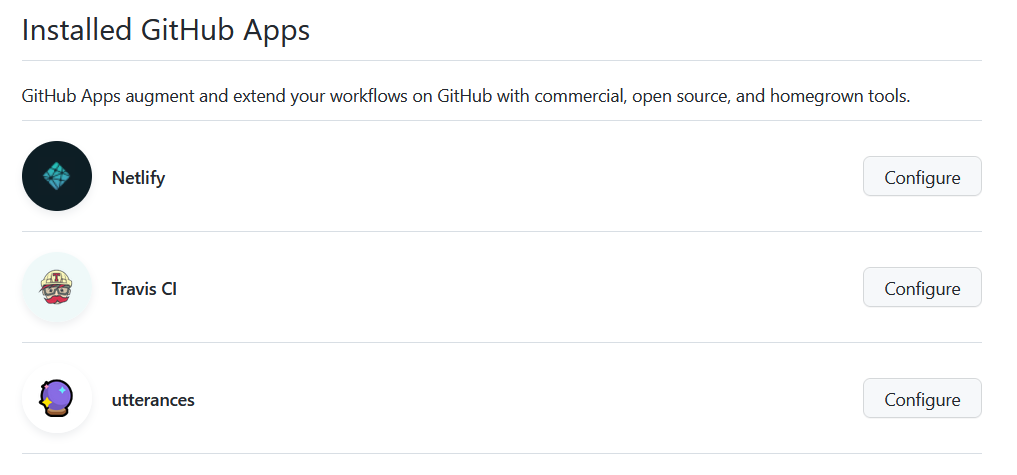
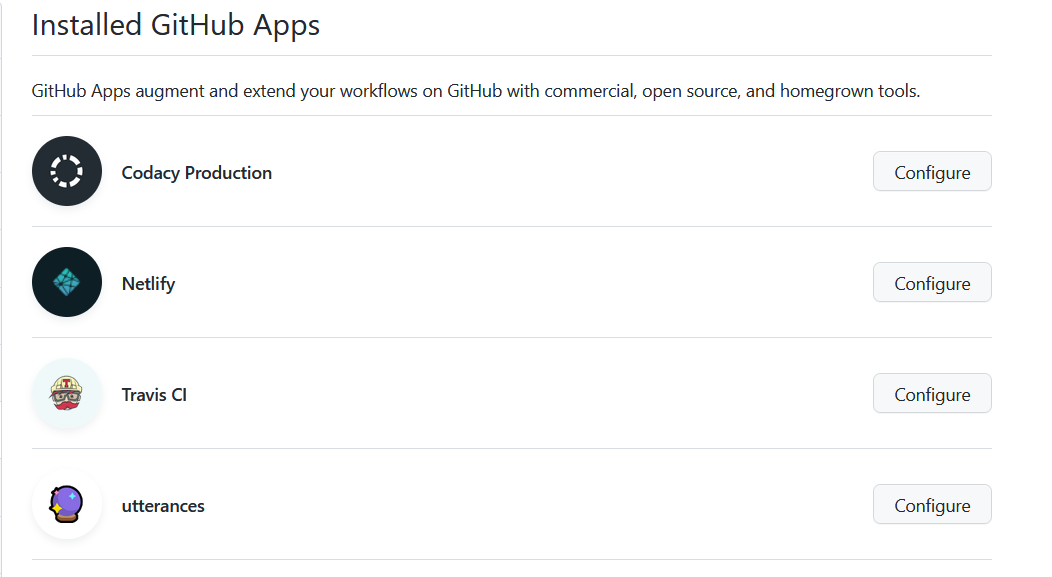
Updated files
* Updated rubric
* updated screenshots

diff --git a/docs/proj2rubric.md b/docs/proj2rubric.md
@@ -1,26 +1,26 @@
 |Score|Notes| Evidence|
 |-|-----|---------|
-|.5| short release cycles||
-|.5| workload is spread over the whole team (so one team member is often Xtimes more productive than the others...||
+|.5| short release cycles|https://github.com/CSC510-Group-25/feature-hunt/releases|
+|.5| workload is spread over the whole team (so one team member is often Xtimes more productive than the others...|https://github.com/CSC510-Group-25/feature-hunt/pulse|
 |.5|Docs: why: docs tell a story, motivate the whole thing, deliver a punchline that makes you want to rush out and use the thing | |
-|.5|the files CONTRIBUTING.md lists coding standards and lots of tips on how to extend the system without screwing things up  | |
+|.5|the files CONTRIBUTING.md lists coding standards and lots of tips on how to extend the system without screwing things up  | https://github.com/CSC510-Group-25/feature-hunt/blob/main/CONTRIBUTING.md|
 |.5|Docs: doco generated , format not ugly  | in GH|
-|.5|evidence that the whole team is using the same tools (e.g. config files in the repo, updated by lots of different people) | |
-|.5|evidence that the members of the team are working across multiple places in the code base | |
+|.5|evidence that the whole team is using the same tools (e.g. config files in the repo, updated by lots of different people) | package.json, requirements.txt |
+|.5|evidence that the members of the team are working across multiple places in the code base | https://github.com/CSC510-Group-25/feature-hunt/branches/active?page=1 |
 |1|Docs: what: point descriptions of each class/function (in isolation)  | |
 |.5|Number of commits: by different people  | in GH|
 |1|issues are being closed | evidence in GH|
 |.5|issues are discussed before they are closed | even if you discuss in slack, need a sumamry statement here|
 |.5|Use of syntax checkers. | config files iin GH showing this checker's config|
-|1|Issues reports: there are many  | |
-|.5|Use of code formatters. | config files in GH showing your this formatter's config|
-|.5|Use of style checkers | config files in GH showing your config|
+|1|Issues reports: there are many  | https://github.com/CSC510-Group-25/feature-hunt/issues |
+|.5|Use of code formatters. | package.json, Prettier |
+|.5|Use of style checkers | Actions workflow, PyLint, Codacy |
 |.5|Docs: short video, animated, hosted on your repo. That convinces people why they want to work on your code. | |
 |.5|test cases exist  | dozens of tests and those test cases are more than 30% of the code base|
-|.5|Use of code coverage  | config files in GH|
-|.5|other automated analysis tools  | config files in GH|
-|.5|test cases:.a large proportion of the issues related to handling failing cases. | if a test case fails, open an issue and fix it|
+|.5|Use of code coverage  | https://coveralls.io/github/CSC510-Group-25/feature-hunt?branch=main,  |
+|.5|other automated analysis tools  | Codacy, Snyk, Dependabot|
+|.5|test cases:a large proportion of the issues related to handling failing cases. | if a test case fails, open an issue and fix it|
 |.5|test cases are routinely executed | e.g. travis-com.com or github actions or something|
-|1|Documentation describing how this version improves on the older version| 
+|1|Documentation describing how this version improves on the older version|  |
 |3|This version is a little(1), some(2), much(3) improved on the last version.|Tutor's assessment.| 
 |16| Total|
